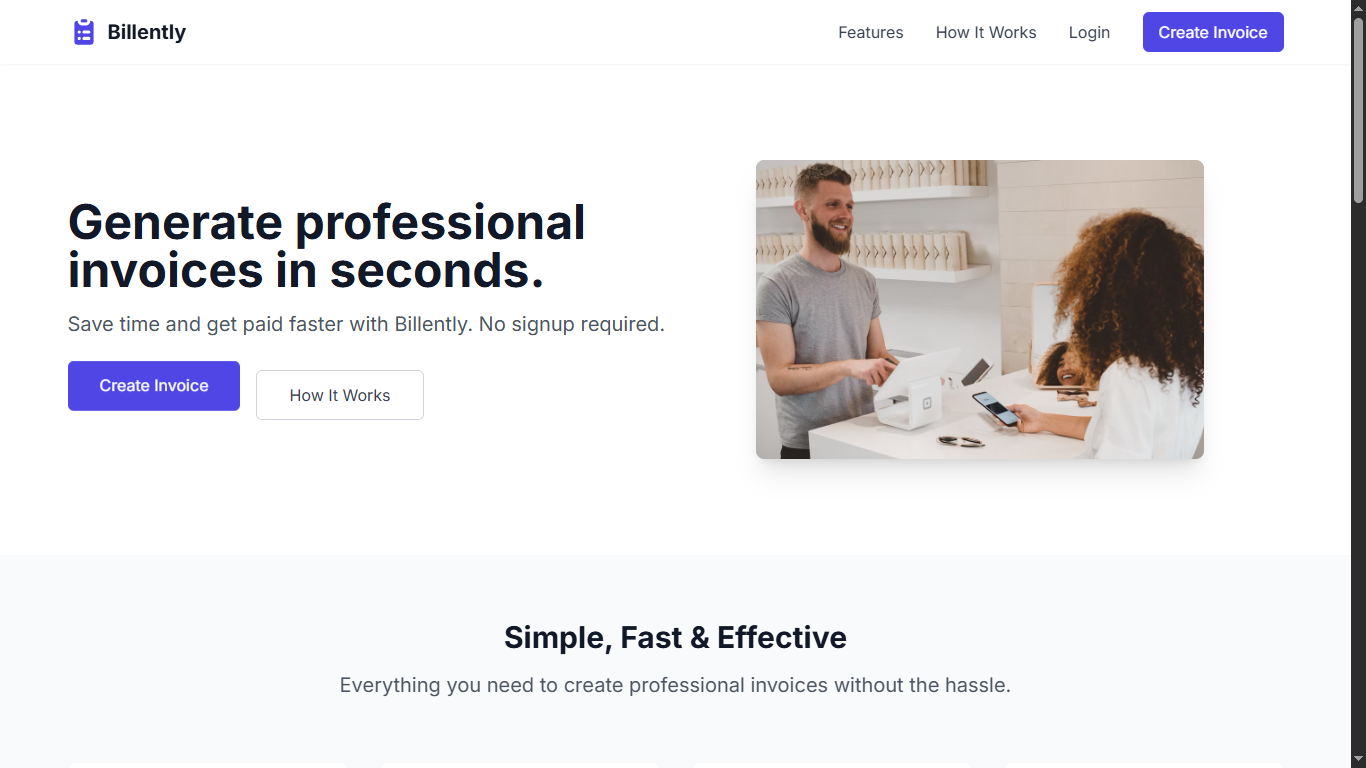
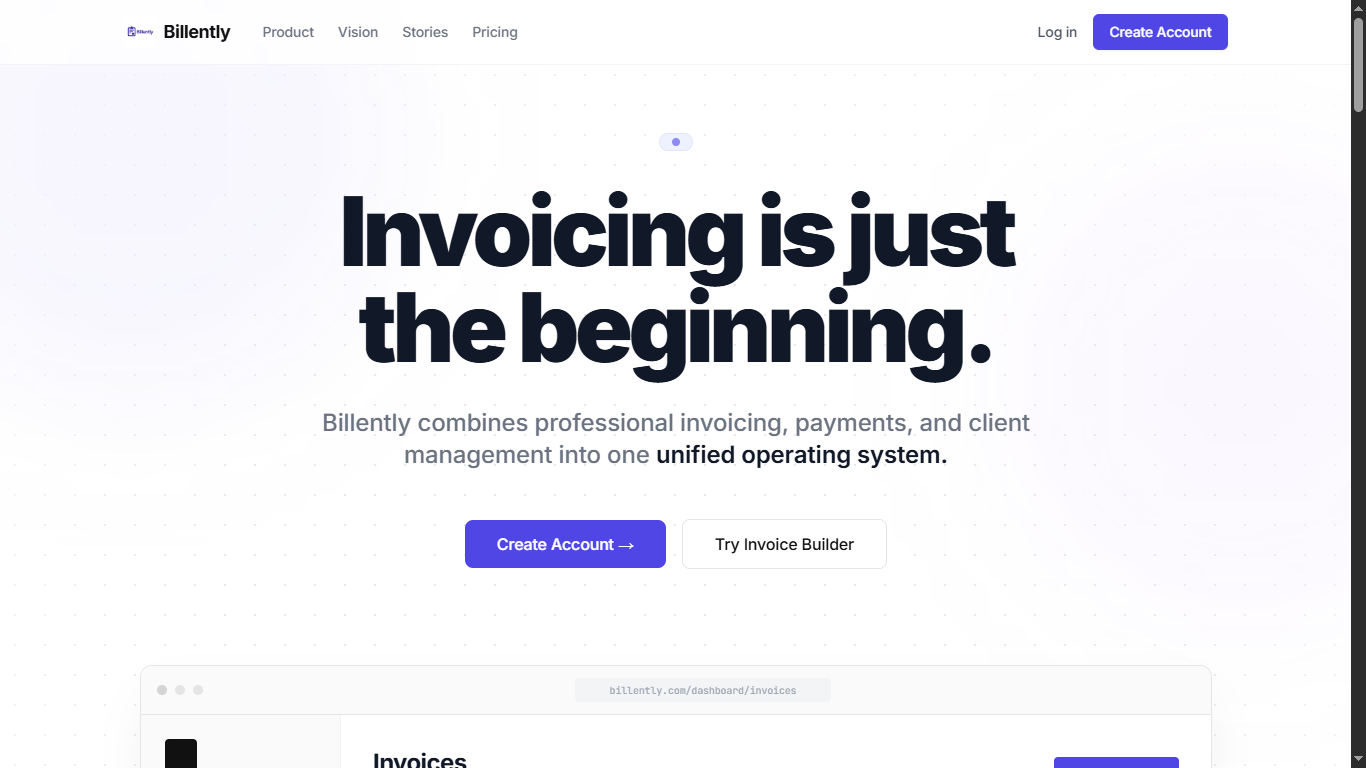
updated portfolio images and navbar

diff --git a/index.html b/index.html
@@ -91,8 +91,8 @@
    <a href="#home" class="text-gray-900 dark:text-white/80 hover:text-primary-600 dark:hover:text-white transition transform hover:scale-110">
     <i class="fas fa-home text-xl"></i>
   </a>
-  <a href="https://x.com/olamzyweb" target="_blank" class="text-gray-900 dark:text-white/80 hover:text-primary-600 dark:hover:text-white transition transform hover:scale-110">
-    <svg stroke="currentColor" fill="currentColor" stroke-width="0" viewBox="0 0 16 16" height="17" width="17" xmlns="http://www.w3.org/2000/svg"><path d="M12.6.75h2.454l-5.36 6.142L16 15.25h-4.937l-3.867-5.07-4.425 5.07H.316l5.733-6.57L0 .75h5.063l3.495 4.633L12.601.75Zm-.86 13.028h1.36L4.323 2.145H2.865z"></path></svg>
+  <a href="https://wa.me/2348188435281" target="_blank" class="text-gray-900 dark:text-white/80 hover:text-primary-600 dark:hover:text-white transition transform hover:scale-110">
+    <i class="fab fa-whatsapp text-xl"></i>
   </a>
   <a href="OLANREWAJU OLAMIDE RESUME.pdf" download class="text-gray-900 dark:text-white/80 hover:text-primary-600 dark:hover:text-white transition transform hover:scale-110">
     <i class="fas fa-folder-open text-xl"></i>
@@ -315,6 +315,43 @@ Beyond code, I’m passionate about learning, mentoring, and simplifying complex
 
 
 
+<!-- Project 11 -->
+ <div class="project-card bg-white px-6 py-8 dark:bg-gray-800 rounded-xl overflow-hidden shadow-md">
+                    <div class="h-48 bg-gray-200 dark:bg-gray-700 rounded-md flex items-center justify-center">
+                        <!-- <i class="fas fa-book-open text-5xl text-gray-400"></i> -->
+                         <img src="images/byroo.png" class="rounded-md" alt="byroo">
+                    </div>
+                    <div class="p-6">
+                        <h3 class="text-xl font-semibold mb-2">Byroo</h3>
+                        <p class="text-gray-600 dark:text-gray-400 mb-4">Online digital space for freelancers, vendors and small businesses</p>
+                        <div class="flex flex-wrap gap-2 mb-4">
+                            <span class="px-3 py-1 bg-primary-100 dark:bg-primary-900/30 text-primary-800 dark:text-primary-200 text-sm rounded-full">NEXTJs</span>
+                            <span class="px-3 py-1 bg-primary-100 dark:bg-primary-900/30 text-primary-800 dark:text-primary-200 text-sm rounded-full">Tailwind</span>
+                            <span class="px-3 py-1 bg-primary-100 dark:bg-primary-900/30 text-primary-800 dark:text-primary-200 text-sm rounded-full">Supabase</span>
+                        </div>
+                        <a href="https://byroo.digital" class="text-primary-600 dark:text-primary-400 font-medium hover:underline">View Project</a>
+                    </div>
+                </div>
+
+
+   <!-- Project 4 -->
+                <div class="project-card bg-white px-6 py-8  dark:bg-gray-800 rounded-xl overflow-hidden shadow-md">
+                    <div class="h-48 bg-gray-200 dark:bg-gray-700 rounded-md flex items-center justify-center">
+                        <!-- <i class="fas fa-university text-5xl text-gray-400"></i> -->
+                         <img src="images/billently.png" class="rounded-md" alt="billently">
+                    </div>
+                    <div class="p-6">
+                        <h3 class="text-xl font-semibold mb-2">Billently</h3>
+                        <p class="text-gray-600 dark:text-gray-400 mb-4">Modern invoice generation website with client management and automated PDF receipts.</p>
+                        <div class="flex flex-wrap gap-2 mb-4">
+                            <span class="px-3 py-1 bg-primary-100 dark:bg-primary-900/30 text-primary-800 dark:text-primary-200 text-sm rounded-full">React</span>
+                            <span class="px-3 py-1 bg-primary-100 dark:bg-primary-900/30 text-primary-800 dark:text-primary-200 text-sm rounded-full">Tailwind CSS</span>
+                            <span class="px-3 py-1 bg-primary-100 dark:bg-primary-900/30 text-primary-800 dark:text-primary-200 text-sm rounded-full">Chart.js</span>
+                        </div>
+                        <a href="https://billently.com" class="text-primary-600 dark:text-primary-400 font-medium hover:underline">View Project</a>
+                    </div>
+                </div>
+
 
                 <!-- Project 1 -->
  <div class="project-card bg-white px-6 py-8 dark:bg-gray-800 rounded-xl overflow-hidden shadow-md">
@@ -355,54 +392,6 @@ Beyond code, I’m passionate about learning, mentoring, and simplifying complex
                         <a href="https://swipelearn.pxxl.click" class="text-primary-600 dark:text-primary-400 font-medium hover:underline">View Project</a>
                     </div>
                 </div>
-
-
-
-
-
-
-                <!-- Project 2 -->
-               
-                
-                <div class="project-card bg-white px-6 py-8 dark:bg-gray-800 rounded-xl overflow-hidden shadow-md">
-                    <div class="h-48 bg-gray-200 dark:bg-gray-700 flex rounded-md items-center justify-center">
-                        <!-- <i class="fas fa-graduation-cap text-5xl text-gray-400"></i> -->
-                         <img src="images/heandshe.png" class="rounded-md" alt="heandshe academy">
-                    </div>
-                    <div class="p-6">
-                        <h3 class="text-xl font-semibold mb-2">He&She academy</h3>
-                        <p class="text-gray-600 dark:text-gray-400 mb-4">A modern, responsive website for He & She Academy, showcasing their beauty training programs and services with an elegant, user-friendly design</p>
-                        <div class="flex flex-wrap gap-2 mb-4">
-                            <span class="px-3 py-1 bg-primary-100 dark:bg-primary-900/30 text-primary-800 dark:text-primary-200 text-sm rounded-full">Laravel</span>
-                            <span class="px-3 py-1 bg-primary-100 dark:bg-primary-900/30 text-primary-800 dark:text-primary-200 text-sm rounded-full">Sanctum</span>
-                            <span class="px-3 py-1 bg-primary-100 dark:bg-primary-900/30 text-primary-800 dark:text-primary-200 text-sm rounded-full">MySQL</span>
-                        </div>
-                        <a href="https://heandsheacademy.com" class="text-primary-600 dark:text-primary-400 font-medium hover:underline">View Project</a>
-                    </div>
-                </div>
-
-
-
-
-<!-- Project 11 -->
- <div class="project-card bg-white px-6 py-8 dark:bg-gray-800 rounded-xl overflow-hidden shadow-md">
-                    <div class="h-48 bg-gray-200 dark:bg-gray-700 rounded-md flex items-center justify-center">
-                        <!-- <i class="fas fa-book-open text-5xl text-gray-400"></i> -->
-                         <img src="images/byroo.png" class="rounded-md" alt="byroo">
-                    </div>
-                    <div class="p-6">
-                        <h3 class="text-xl font-semibold mb-2">Byroo</h3>
-                        <p class="text-gray-600 dark:text-gray-400 mb-4">Online digital space for freelancers, vendors and small businesses</p>
-                        <div class="flex flex-wrap gap-2 mb-4">
-                            <span class="px-3 py-1 bg-primary-100 dark:bg-primary-900/30 text-primary-800 dark:text-primary-200 text-sm rounded-full">NEXTJs</span>
-                            <span class="px-3 py-1 bg-primary-100 dark:bg-primary-900/30 text-primary-800 dark:text-primary-200 text-sm rounded-full">Tailwind</span>
-                            <span class="px-3 py-1 bg-primary-100 dark:bg-primary-900/30 text-primary-800 dark:text-primary-200 text-sm rounded-full">Supabase</span>
-                        </div>
-                        <a href="https://byroo.digital" class="text-primary-600 dark:text-primary-400 font-medium hover:underline">View Project</a>
-                    </div>
-                </div>
-
-
 <!-- Project 12 -->
  <div class="project-card bg-white px-6 py-8 dark:bg-gray-800 rounded-xl overflow-hidden shadow-md">
                     <div class="h-48 bg-gray-200 dark:bg-gray-700 rounded-md flex items-center justify-center">
@@ -459,24 +448,29 @@ Beyond code, I’m passionate about learning, mentoring, and simplifying complex
                     </div>
                 </div>
                 
-                <!-- Project 4 -->
-                <div class="project-card bg-white px-6 py-8  dark:bg-gray-800 rounded-xl overflow-hidden shadow-md">
-                    <div class="h-48 bg-gray-200 dark:bg-gray-700 rounded-md flex items-center justify-center">
-                        <!-- <i class="fas fa-university text-5xl text-gray-400"></i> -->
-                         <img src="images/billently.png" class="rounded-md" alt="billently">
+             
+                
+
+
+  <!-- Project 2 -->
+               
+                
+                <div class="project-card bg-white px-6 py-8 dark:bg-gray-800 rounded-xl overflow-hidden shadow-md">
+                    <div class="h-48 bg-gray-200 dark:bg-gray-700 flex rounded-md items-center justify-center">
+                        <!-- <i class="fas fa-graduation-cap text-5xl text-gray-400"></i> -->
+                         <img src="images/heandshe.png" class="rounded-md" alt="heandshe academy">
                     </div>
                     <div class="p-6">
-                        <h3 class="text-xl font-semibold mb-2">Billently</h3>
-                        <p class="text-gray-600 dark:text-gray-400 mb-4">Modern invoice generation website with client management and automated PDF receipts.</p>
+                        <h3 class="text-xl font-semibold mb-2">He&She academy</h3>
+                        <p class="text-gray-600 dark:text-gray-400 mb-4">A modern, responsive website for He & She Academy, showcasing their beauty training programs and services with an elegant, user-friendly design</p>
                         <div class="flex flex-wrap gap-2 mb-4">
-                            <span class="px-3 py-1 bg-primary-100 dark:bg-primary-900/30 text-primary-800 dark:text-primary-200 text-sm rounded-full">React</span>
-                            <span class="px-3 py-1 bg-primary-100 dark:bg-primary-900/30 text-primary-800 dark:text-primary-200 text-sm rounded-full">Tailwind CSS</span>
-                            <span class="px-3 py-1 bg-primary-100 dark:bg-primary-900/30 text-primary-800 dark:text-primary-200 text-sm rounded-full">Chart.js</span>
+                            <span class="px-3 py-1 bg-primary-100 dark:bg-primary-900/30 text-primary-800 dark:text-primary-200 text-sm rounded-full">Laravel</span>
+                            <span class="px-3 py-1 bg-primary-100 dark:bg-primary-900/30 text-primary-800 dark:text-primary-200 text-sm rounded-full">Sanctum</span>
+                            <span class="px-3 py-1 bg-primary-100 dark:bg-primary-900/30 text-primary-800 dark:text-primary-200 text-sm rounded-full">MySQL</span>
                         </div>
-                        <a href="https://billently.com" class="text-primary-600 dark:text-primary-400 font-medium hover:underline">View Project</a>
+                        <a href="https://heandsheacademy.com" class="text-primary-600 dark:text-primary-400 font-medium hover:underline">View Project</a>
                     </div>
                 </div>
-                
 
 
 
